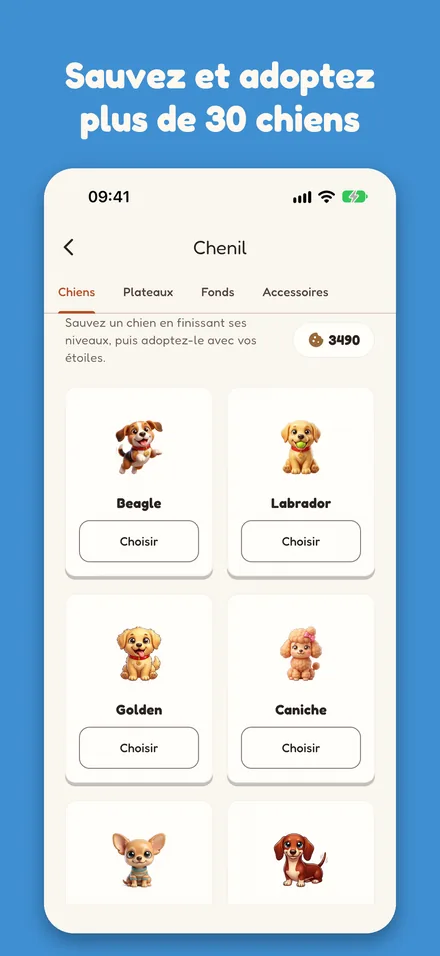
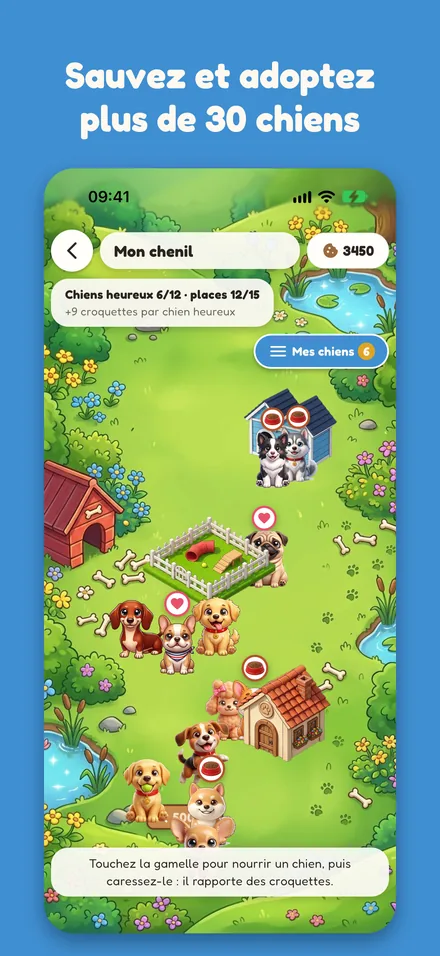
Le jeu devient Pup Haven

diff --git a/confidentialite.html b/confidentialite.html
@@ -3,8 +3,8 @@
 <head>
 <meta charset="utf-8">
 <meta name="viewport" content="width=device-width, initial-scale=1">
-<title>Confidentialité · Pupdoku</title>
-<meta name="description" content="Politique de confidentialité du jeu Pupdoku.">
+<title>Confidentialité · Pup Haven</title>
+<meta name="description" content="Politique de confidentialité du jeu Pup Haven.">
 <link rel="icon" href="icon.png">
 <link rel="preconnect" href="https://fonts.googleapis.com">
 <link rel="stylesheet" href="https://fonts.googleapis.com/css2?family=Fredoka:wght@400;600&display=swap">
@@ -52,16 +52,16 @@ footer { margin-top: 48px; font-size: 14px; color: var(--muted); text-align: cen
 </head>
 <body>
 <main>
-<nav class="back"><a href="index.html">← Pupdoku</a></nav>
-<h1>Politique de confidentialité de Pupdoku</h1>
+<nav class="back"><a href="index.html">← Pup Haven</a></nav>
+<h1>Politique de confidentialité de Pup Haven</h1>
 <p>Dernière mise à jour : 22 octobre 2026</p>
-<p>Pupdoku est un jeu de logique. Cette page explique quelles données le jeu utilise, pourquoi, et comment vous gardez la main dessus.</p>
+<p>Pup Haven est un jeu de logique. Cette page explique quelles données le jeu utilise, pourquoi, et comment vous gardez la main dessus.</p>
 <h2>Éditeur</h2>
-<p>Pupdoku est édité par [NOM DE L'ÉDITEUR], joignable à [ADRESSE E-MAIL DE CONTACT].</p>
+<p>Pup Haven est édité par [NOM DE L'ÉDITEUR], joignable à [ADRESSE E-MAIL DE CONTACT].</p>
 <h2>Ce qui reste sur votre téléphone</h2>
 <p>Votre progression (niveaux, étoiles, croquettes, chiens adoptés, réglages) est enregistrée uniquement sur votre appareil. Elle n'est pas envoyée sur nos serveurs. Si vous supprimez le jeu, elle est effacée.</p>
 <h2>Votre photo de fond</h2>
-<p>Avec le Pass Pupdoku, vous pouvez mettre une de vos photos en fond de partie. Le jeu n'accède qu'à la photo que vous choisissez, au moment où vous la choisissez. Elle est copiée sur votre téléphone, dans l'espace du jeu, et n'est envoyée nulle part.</p>
+<p>Avec le Pass Pup Haven, vous pouvez mettre une de vos photos en fond de partie. Le jeu n'accède qu'à la photo que vous choisissez, au moment où vous la choisissez. Elle est copiée sur votre téléphone, dans l'espace du jeu, et n'est envoyée nulle part.</p>
 <h2>Rappels</h2>
 <p>Si vous les acceptez, le jeu vous envoie des rappels (défi du jour prêt, vies rechargées, retour après quelques jours). Ils sont programmés sur votre téléphone : aucune donnée n'est envoyée pour cela. Vous pouvez les couper dans les Réglages du jeu ou du téléphone.</p>
 <h2>Rapports de plantage</h2>
@@ -69,19 +69,19 @@ footer { margin-top: 48px; font-size: 14px; color: var(--muted); text-align: cen
 <h2>Parrainage et codes cadeaux</h2>
 <p>Pour utiliser un code de parrainage ou un code cadeau, le jeu crée un compte anonyme sur notre serveur (hébergé par Supabase, en Union européenne). Ce compte ne contient ni nom, ni adresse e-mail, ni numéro de téléphone : seulement un identifiant aléatoire, votre code de parrainage, les codes utilisés et les croquettes en attente. Ces données servent uniquement à faire fonctionner le parrainage et les codes, et à empêcher qu'un code soit utilisé plusieurs fois.</p>
 <h2>Achats</h2>
-<p>Les achats (croquettes, Sans pub, Pass Pupdoku) sont traités par Apple (App Store) ou Google (Google Play). Nous ne recevons jamais vos coordonnées bancaires. Nous recevons seulement la confirmation de l'achat, pour le créditer dans le jeu.</p>
+<p>Les achats (croquettes, Sans pub, Pass Pup Haven) sont traités par Apple (App Store) ou Google (Google Play). Nous ne recevons jamais vos coordonnées bancaires. Nous recevons seulement la confirmation de l'achat, pour le créditer dans le jeu.</p>
 <h2>Publicités</h2>
-<p>Pupdoku est gratuit grâce aux publicités, diffusées par Google AdMob. Au premier lancement, dans l'Union européenne, le jeu vous demande votre consentement. Avec votre accord, AdMob peut utiliser l'identifiant publicitaire de votre appareil pour vous montrer des publicités plus pertinentes et mesurer leur efficacité. Sans votre accord, vous voyez des publicités non personnalisées. Sur iPhone, l'autorisation de suivi vous est aussi demandée par le système.</p>
+<p>Pup Haven est gratuit grâce aux publicités, diffusées par Google AdMob. Au premier lancement, dans l'Union européenne, le jeu vous demande votre consentement. Avec votre accord, AdMob peut utiliser l'identifiant publicitaire de votre appareil pour vous montrer des publicités plus pertinentes et mesurer leur efficacité. Sans votre accord, vous voyez des publicités non personnalisées. Sur iPhone, l'autorisation de suivi vous est aussi demandée par le système.</p>
 <p>Vous pouvez changer d'avis à tout moment dans Réglages, « Confidentialité des publicités ». La politique de confidentialité de Google est disponible sur <a href="https://policies.google.com/privacy">policies.google.com/privacy</a>.</p>
-<p>Les offres « Sans pub » et « Pass Pupdoku » retirent les publicités qui s'affichent entre les niveaux. Les vidéos qui donnent une récompense restent proposées, et ne sont lancées que si vous les choisissez.</p>
+<p>Les offres « Sans pub » et « Pass Pup Haven » retirent les publicités qui s'affichent entre les niveaux. Les vidéos qui donnent une récompense restent proposées, et ne sont lancées que si vous les choisissez.</p>
 <h2>Ce que nous ne faisons pas</h2>
 <p>Nous ne vendons pas vos données. Nous ne vous demandons ni compte, ni adresse e-mail, ni localisation, ni accès à vos contacts ou à votre micro. Le jeu n'accède à vos photos que pour celle que vous choisissez en fond, comme expliqué plus haut.</p>
 <h2>Enfants</h2>
-<p>Pupdoku n'est pas conçu spécialement pour les enfants de moins de 13 ans et ne collecte pas sciemment de données les concernant.</p>
+<p>Pup Haven n'est pas conçu spécialement pour les enfants de moins de 13 ans et ne collecte pas sciemment de données les concernant.</p>
 <h2>Vos droits</h2>
 <p>Conformément au RGPD, vous pouvez demander l'accès à vos données, leur rectification ou leur suppression en écrivant à [ADRESSE E-MAIL DE CONTACT]. Vous pouvez aussi saisir la CNIL (<a href="https://cnil.fr">cnil.fr</a>).</p>
 <h2>Modifications</h2>
-<p>Si cette politique change, la date en haut de la page est mise à jour.</p><footer>Pupdoku · <a href="index.html">Accueil</a> · <a href="confidentialite.html">Confidentialité</a></footer>
+<p>Si cette politique change, la date en haut de la page est mise à jour.</p><footer>Pup Haven · <a href="index.html">Accueil</a> · <a href="confidentialite.html">Confidentialité</a></footer>
 </main>
 </body>
 </html>

diff --git a/index.html b/index.html
@@ -3,8 +3,8 @@
 <head>
 <meta charset="utf-8">
 <meta name="viewport" content="width=device-width, initial-scale=1">
-<title>Pupdoku</title>
-<meta name="description" content="Pupdoku, le casse-tête qui a du chien : placez chaque chien dans sa niche.">
+<title>Pup Haven</title>
+<meta name="description" content="Pup Haven, le casse-tête qui a du chien : placez chaque chien dans sa niche.">
 <link rel="icon" href="icon.png">
 <link rel="preconnect" href="https://fonts.googleapis.com">
 <link rel="stylesheet" href="https://fonts.googleapis.com/css2?family=Fredoka:wght@400;600&display=swap">
@@ -54,18 +54,18 @@ footer { margin-top: 48px; font-size: 14px; color: var(--muted); text-align: cen
 <main>
 <header class="hero">
 <img class="icon" src="icon.png" alt="" width="112" height="112">
-<h1>Pupdoku</h1>
+<h1>Pup Haven</h1>
 <p class="tagline">Le casse-tête qui a du chien</p>
 </header>
 <p>Sur chaque grille, placez un chien par zone de couleur, un seul par ligne
 et par colonne, et jamais deux chiens côte à côte. Pas de hasard : que de la
 déduction, à travers plus de 1&nbsp;000 niveaux et 21 mondes.</p>
 <div class="shots">
-<img src="capture_01_partie.webp" alt="Capture d'écran de Pupdoku" width="440" height="956" loading="lazy">
-<img src="capture_02_boss_coeur.webp" alt="Capture d'écran de Pupdoku" width="440" height="956" loading="lazy">
-<img src="capture_03_carte.webp" alt="Capture d'écran de Pupdoku" width="440" height="956" loading="lazy">
-<img src="capture_04_chenil.webp" alt="Capture d'écran de Pupdoku" width="440" height="956" loading="lazy">
-<img src="capture_05_victoire.webp" alt="Capture d'écran de Pupdoku" width="440" height="956" loading="lazy">
+<img src="capture_01_partie.webp" alt="Capture d'écran de Pup Haven" width="440" height="956" loading="lazy">
+<img src="capture_02_boss_coeur.webp" alt="Capture d'écran de Pup Haven" width="440" height="956" loading="lazy">
+<img src="capture_03_carte.webp" alt="Capture d'écran de Pup Haven" width="440" height="956" loading="lazy">
+<img src="capture_04_chenil.webp" alt="Capture d'écran de Pup Haven" width="440" height="956" loading="lazy">
+<img src="capture_05_victoire.webp" alt="Capture d'écran de Pup Haven" width="440" height="956" loading="lazy">
 </div>
 <div class="card">
 <h2>Assistance</h2>
@@ -76,7 +76,7 @@ préciser votre téléphone et votre version du jeu.</p>
 récupère le Pass et l'offre Sans pub sur un nouvel appareil.</p>
 </div>
 <p><a href="confidentialite.html">Politique de confidentialité</a></p>
-<footer>Pupdoku · <a href="index.html">Accueil</a> · <a href="confidentialite.html">Confidentialité</a></footer>
+<footer>Pup Haven · <a href="index.html">Accueil</a> · <a href="confidentialite.html">Confidentialité</a></footer>
 </main>
 </body>
 </html>
